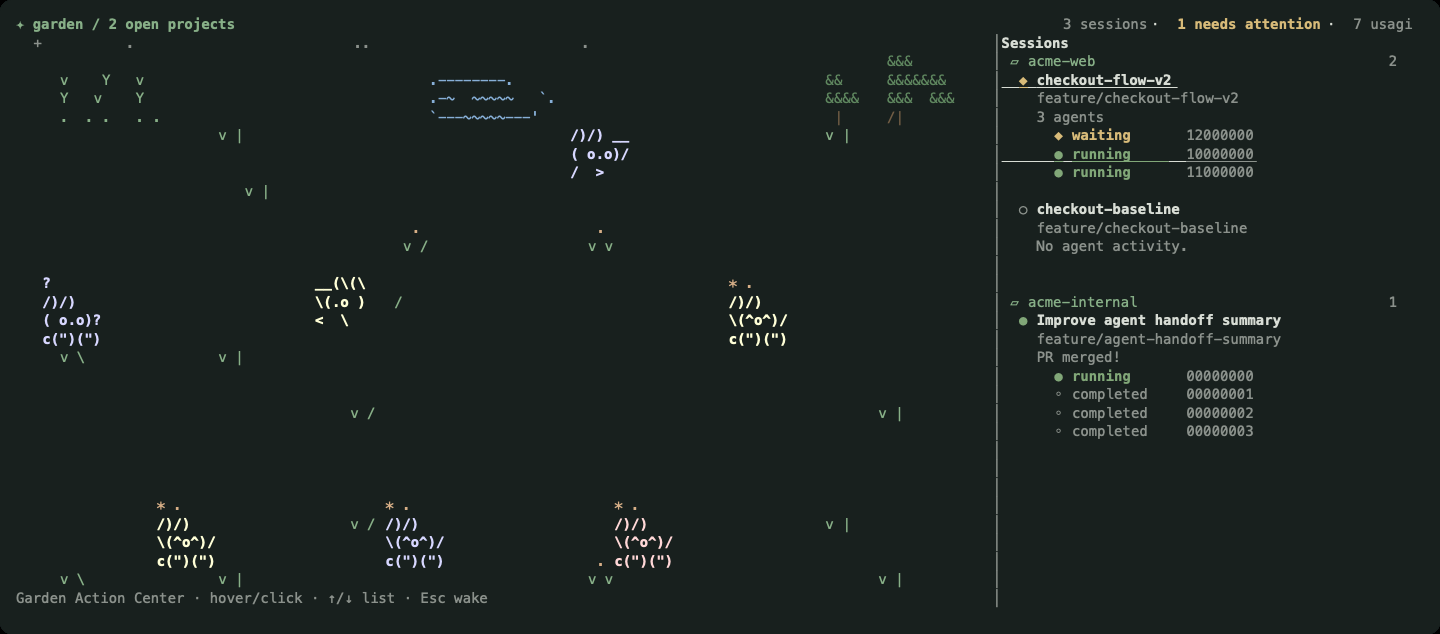
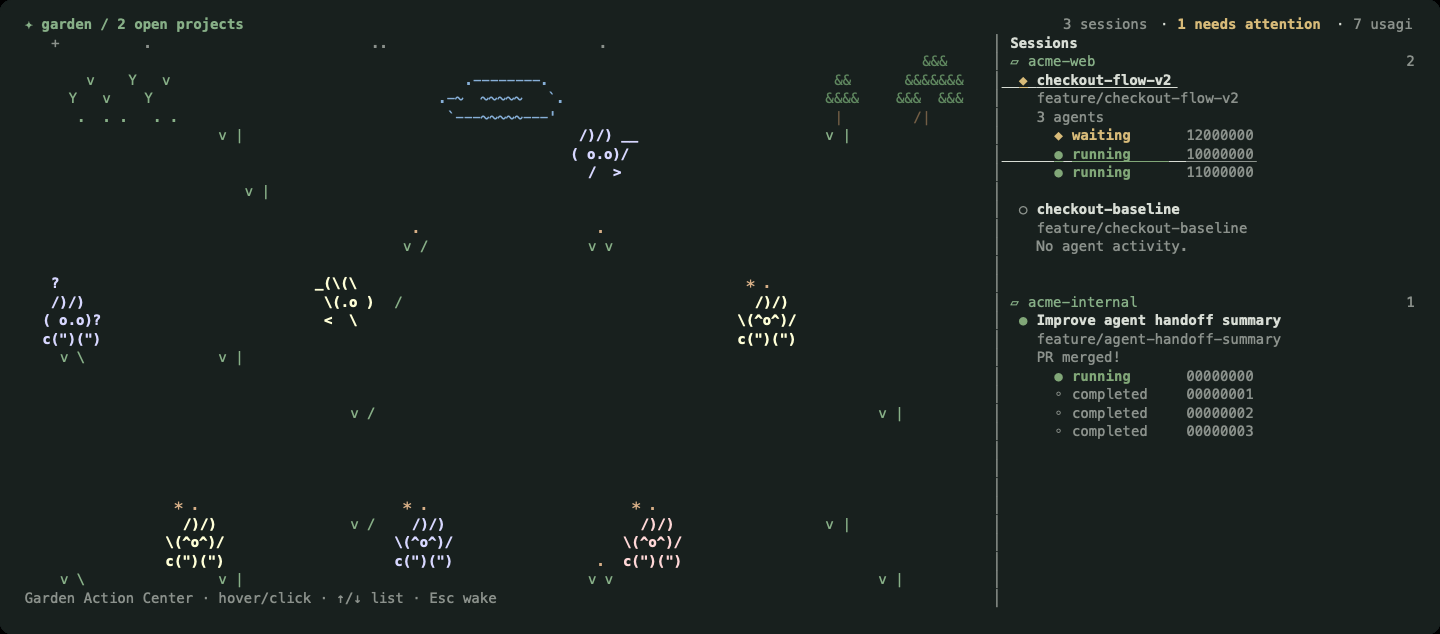
fix: align Garden rabbit ears with their faces

diff --git a/crates/tui/src/presentation/widgets/garden/world.rs b/crates/tui/src/presentation/widgets/garden/world.rs
@@ -342,8 +342,8 @@ fn rabbit_sprite(motion: Motion, tick: u64) -> [&'static str; RABBIT_HEIGHT] {
         Activity::Walking => match (motion.facing, (tick / 4).is_multiple_of(2)) {
             (Facing::Right, true) => ["", " /)/)  >", "( o.o)/", " /  \\"],
             (Facing::Right, false) => [" /)/) __", "( o.o)/", "  /  >", ""],
-            (Facing::Left, true) => ["", "< (\\(\\", "\\(.o )", " /  \\"],
-            (Facing::Left, false) => ["__(\\(\\", " \\(.o )", " <  \\ ", ""],
+            (Facing::Left, true) => ["", "<(\\(\\", "\\(.o )", " /  \\"],
+            (Facing::Left, false) => ["_(\\(\\", " \\(.o )", " <  \\ ", ""],
         },
         Activity::Looking if tick / 8 % 3 == 2 => ["", " /)(/", "( o.o)", "c(\")(\")"],
         Activity::Looking => ["", " /)/)", "( o.o)", "c(\")(\")"],
@@ -355,9 +355,9 @@ fn rabbit_sprite(motion: Motion, tick: u64) -> [&'static str; RABBIT_HEIGHT] {
         Activity::Interrupted => [" !", " /)/)", "( -.-)!", "c(\")(\")"],
         Activity::Working => ["", " /)/)", "( o.o)", " / > <"],
         Activity::Celebrating if tick.is_multiple_of(2) => {
-            [" *  . *", "  /)/)", " \\(^o^)/", " c(\")(\")"]
+            [" *  . *", "   /)/)", " \\(^o^)/", " c(\")(\")"]
         }
-        Activity::Celebrating => ["  \\ /", "  /)/)", " \\(^.^)/", " c(\")(\")"],
+        Activity::Celebrating => ["  \\ /", "   /)/)", " \\(^.^)/", " c(\")(\")"],
     }
 }
 
